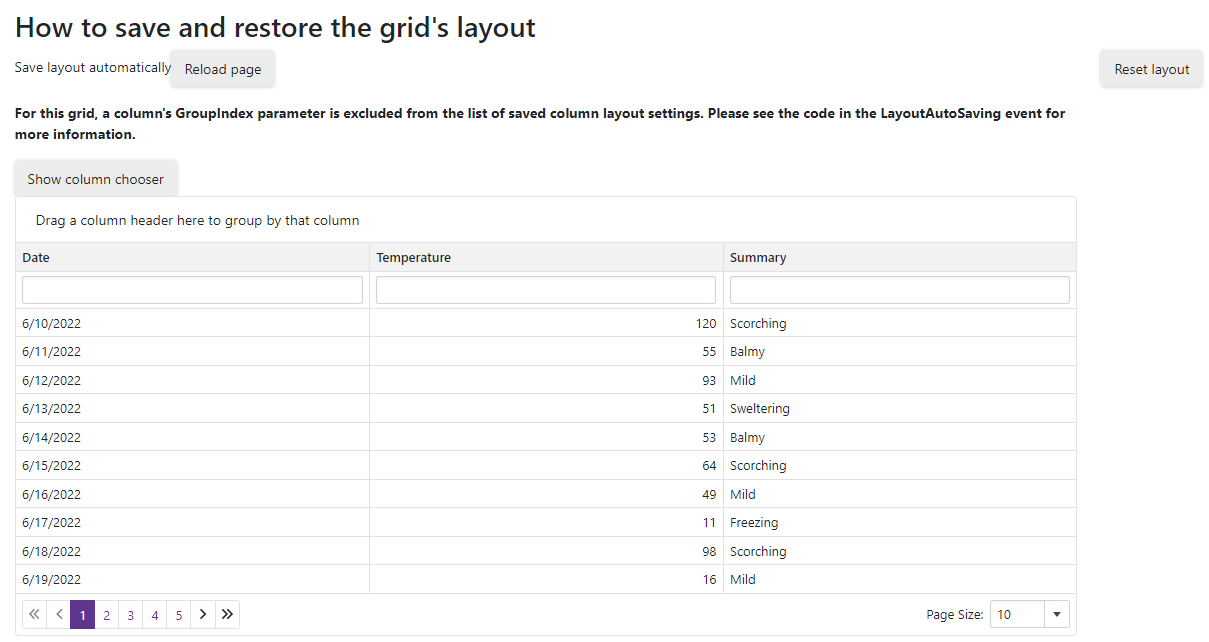
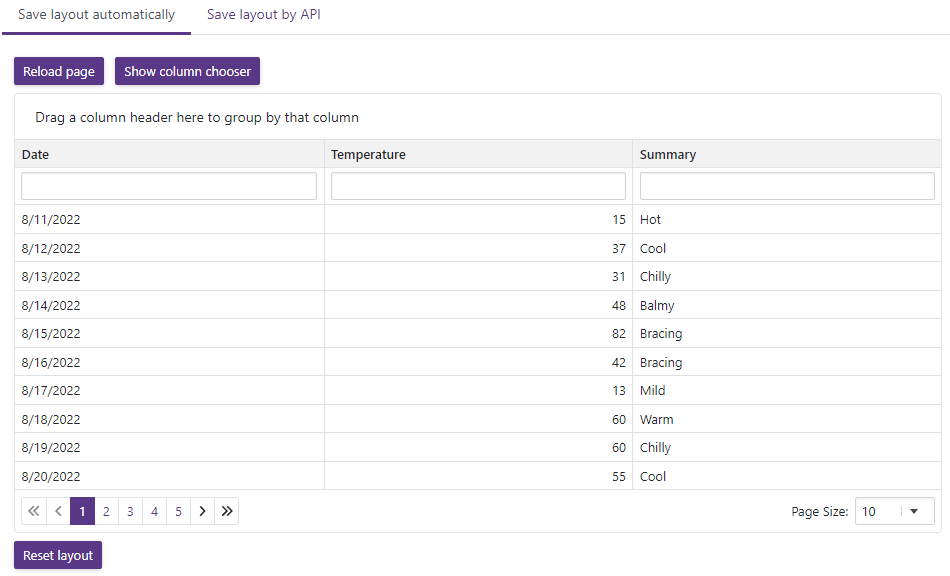
update readme

diff --git a/Readme.md b/Readme.md
@@ -7,28 +7,22 @@
 
 # Grid for Blazor - Save and load layout information
 
-This example illustrates how to use the [LayoutAutoSaving][0] and [LayoutAutoLoading][1] events, and the [SaveLayout](https://docs.devexpress.com/Blazor/DevExpress.Blazor.DxGrid.SaveLayout) and [LoadLayout](https://docs.devexpress.com/Blazor/DevExpress.Blazor.DxGrid.LoadLayout(DevExpress.Blazor.GridPersistentLayout)) methods to save layout information to storage. This information can be restored and applied to the DxGrid component. 
+The DevExpress [Grid](https://docs.devexpress.com/Blazor/403143/grid) for Blazor allows you to save its layout between application work sessions. This example demonstrates how to save layouts automatically and by API. The [Grid.razor](./SaveAndRestoreLayout/SaveAndRestoreLayout/Pages/Grid.razor) page contains two tab pages with Grid components:
+
+* The first Grid handles the [LayoutAutoSaving][https://docs.devexpress.com/Blazor/DevExpress.Blazor.DxGrid.LayoutAutoSaving] and [LayoutAutoLoading][https://docs.devexpress.com/Blazor/DevExpress.Blazor.DxGrid.LayoutAutoLoading] events. The current layout information is saved to local storage. User modifications (paging, sorting, grouping, and filtering) are restored automatically after a page reload.
+
+* The second Grid saves and loads layout information on button clicks that call the [SaveLayout](https://docs.devexpress.com/Blazor/DevExpress.Blazor.DxGrid.SaveLayout) and [LoadLayout](https://docs.devexpress.com/Blazor/DevExpress.Blazor.DxGrid.LoadLayout(DevExpress.Blazor.GridPersistentLayout)) methods. The **Save current layout** button click saves the current layout information. The corresponding layout item appears in the external List Box. Users can select any item in the editor box and click the **Load layout** button to load layout information. 
 
 ![App sample](images/dxgrid-save-restore-layout.png)
-
-This example also illustrates the capability of the [GridPersistentLayout](https://docs.devexpress.com/Blazor/DevExpress.Blazor.DxGrid.LoadLayout(DevExpress.Blazor.GridPersistentLayout)) class to modify the saved layout.
-
-The [Grid.razor](./SaveAndRestoreLayout/SaveAndRestoreLayout/Pages/Grid.razor) page contains two DxGrid components:
-
-* The first Grid handles the **LayoutAutoSaving** and **LayoutAutoLoading** events. The singleton service stores the current layout information and restores it in event handlers. User modifications (paging, sorting, grouping, and filtering) are restored automatically after a page reload. In the LayoutAutoLoading event, the group index is excluded from the list of saved column layout settings.
-
-* The second Grid saves and loads layout information on button clicks that call the [SaveLayout](https://docs.devexpress.com/Blazor/DevExpress.Blazor.DxGrid.SaveLayout) and [LoadLayout](https://docs.devexpress.com/Blazor/DevExpress.Blazor.DxGrid.LoadLayout(DevExpress.Blazor.GridPersistentLayout)) methods. Click the **Save current layout** button to save the current layout information. When the Grid's layout is saved, the column's sort index is excluded from the list of saved column layout settings. The corresponding layout item appears in the external List Box. Select any item in editor box and click the **Load layout** button to load layout information. 
-
-This example illustrates a general approach: layout information stored in the [UserLayoutManager.cs](./SaveAndRestoreLayout/SaveAndRestoreLayout/Data/UserLayoutManager.cs) singleton service does not identify the current user.
-
 
 ## Files to Look At
 
 - [Grid.razor](./CS/SaveAndRestoreLayout/SaveAndRestoreLayout/Pages/Grid.razor)
-- [UserLayoutManager.cs](./CS/SaveAndRestoreLayout/SaveAndRestoreLayout/Data/UserLayoutManager.cs) 
 
 ## Documentation
 
 * [GridPersistentLayout](https://docs.devexpress.com/Blazor/DevExpress.Blazor.DxGrid.LoadLayout(DevExpress.Blazor.GridPersistentLayout))
+* [LayoutAutoSaving][https://docs.devexpress.com/Blazor/DevExpress.Blazor.DxGrid.LayoutAutoSaving]
+* [LayoutAutoLoading][https://docs.devexpress.com/Blazor/DevExpress.Blazor.DxGrid.LayoutAutoLoading]
 * [SaveLayout](https://docs.devexpress.com/Blazor/DevExpress.Blazor.DxGrid.SaveLayout)
 * [LoadLayout](https://docs.devexpress.com/Blazor/DevExpress.Blazor.DxGrid.LoadLayout(DevExpress.Blazor.GridPersistentLayout))
